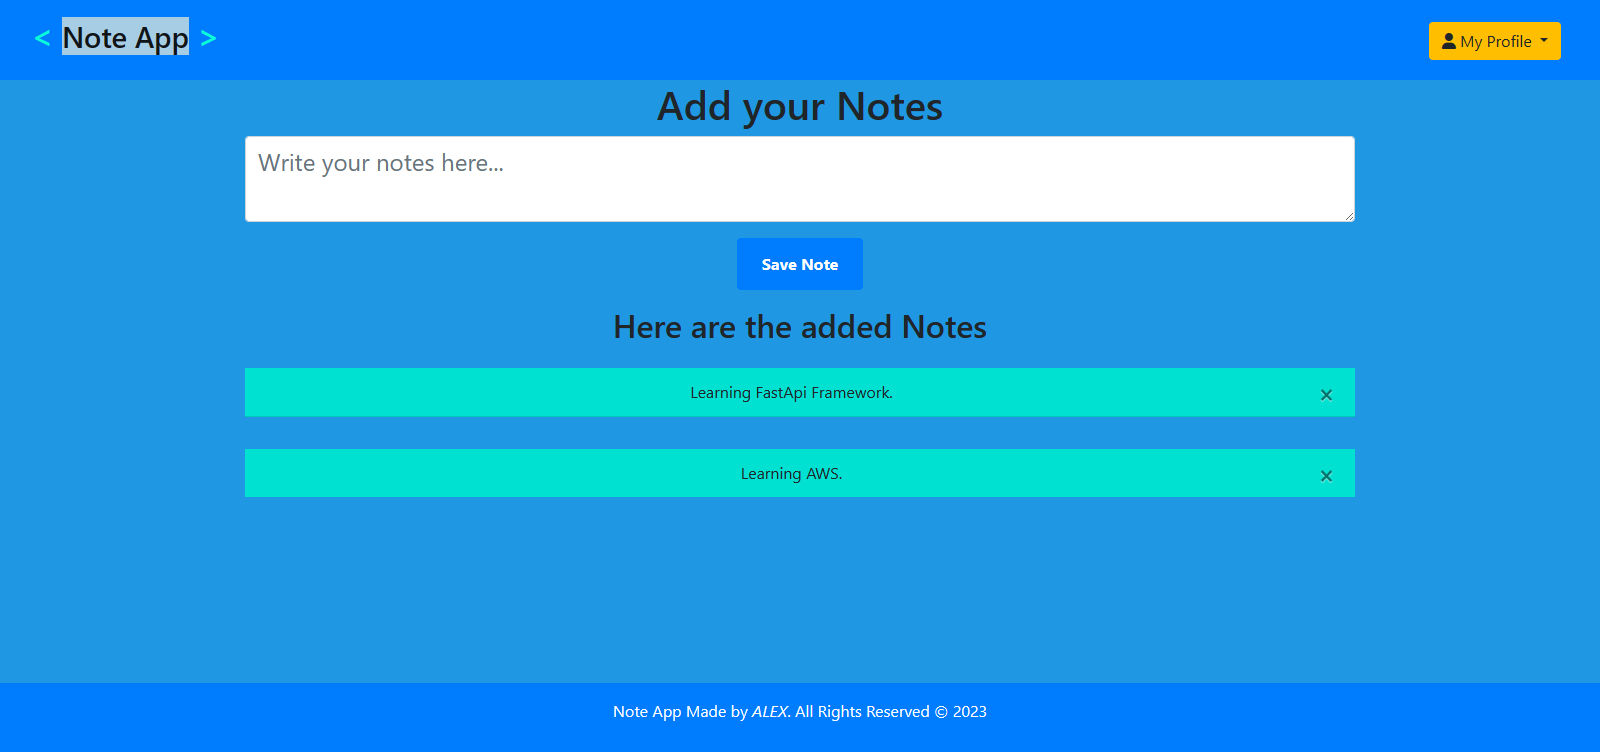
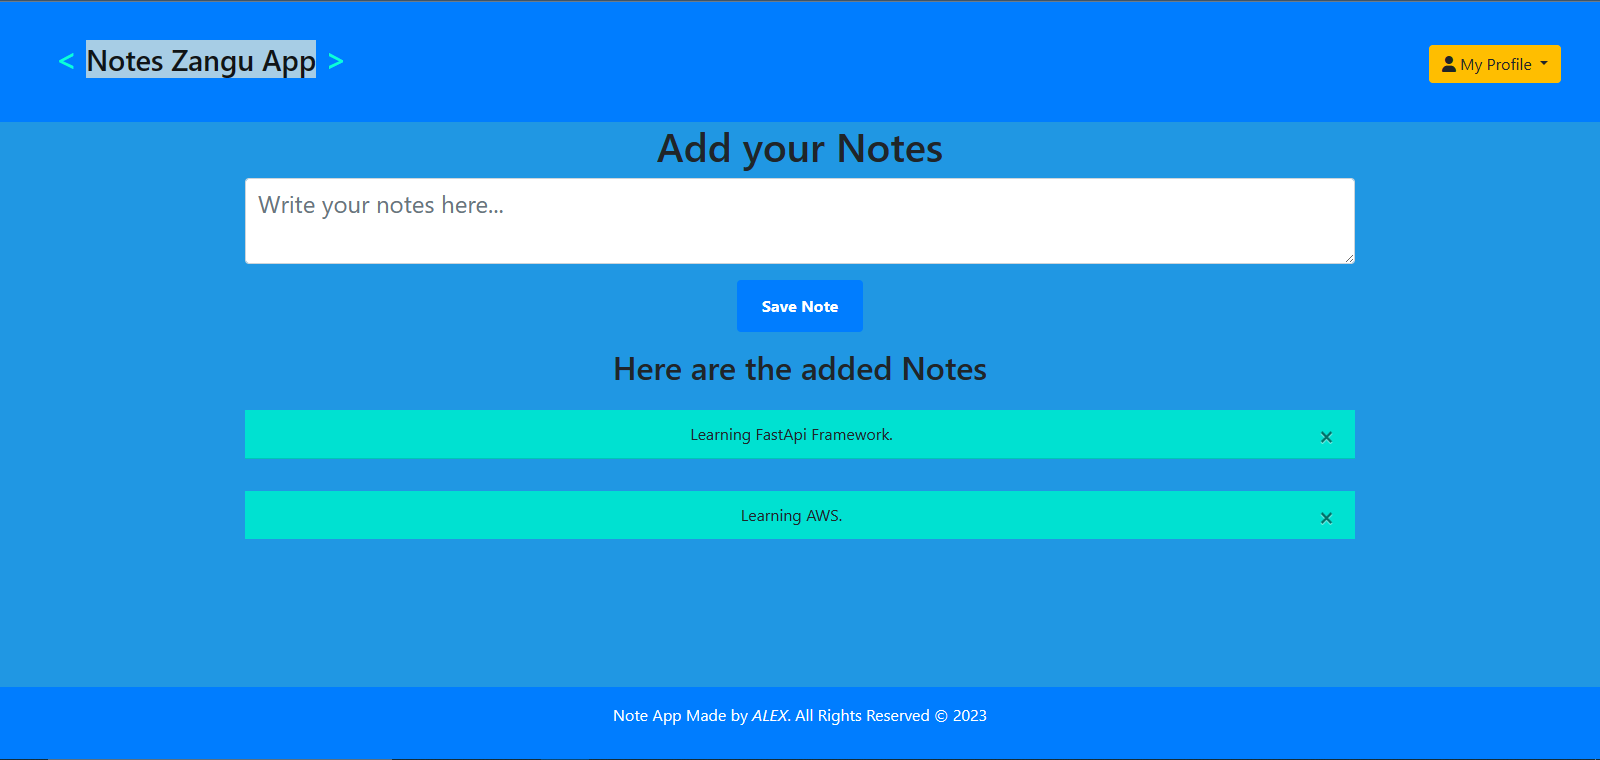
Notes Zangu App

Changed region(s): [[0.0, 0.0, 1.0, 0.734], [0.0, 0.887, 1.0, 0.9787]]

diff --git a/Site/templates/base.html b/Site/templates/base.html
@@ -23,7 +23,7 @@
   <nav class="navbar navbar-expand-lg navbar-light  bg-primary">
     <div class="container-fluid fs-4 ">
       
-    <h2 class="navbar-brand "  style="font-size: 1.8rem;border-radius: 4px;"><span  style="color:aquamarine;font-size: 2rem;"> < </span><span style="background-color: rgba(212, 224, 222, 0.8);">Note App</span><span style="font-size: 2rem;color:aquamarine"> > </span></h2>
+    <h2 class="navbar-brand "  style="font-size: 1.8rem;border-radius: 4px;padding: 1.5rem;"><span  style="color:aquamarine;font-size: 2rem;"> < </span><span style="background-color: rgba(212, 224, 222, 0.8);">Notes Zangu App</span><span style="font-size: 2rem;color:aquamarine"> > </span></h2>
     <div class="navbar-nav ml-auto">
       {% if user.is_authenticated %}
 
